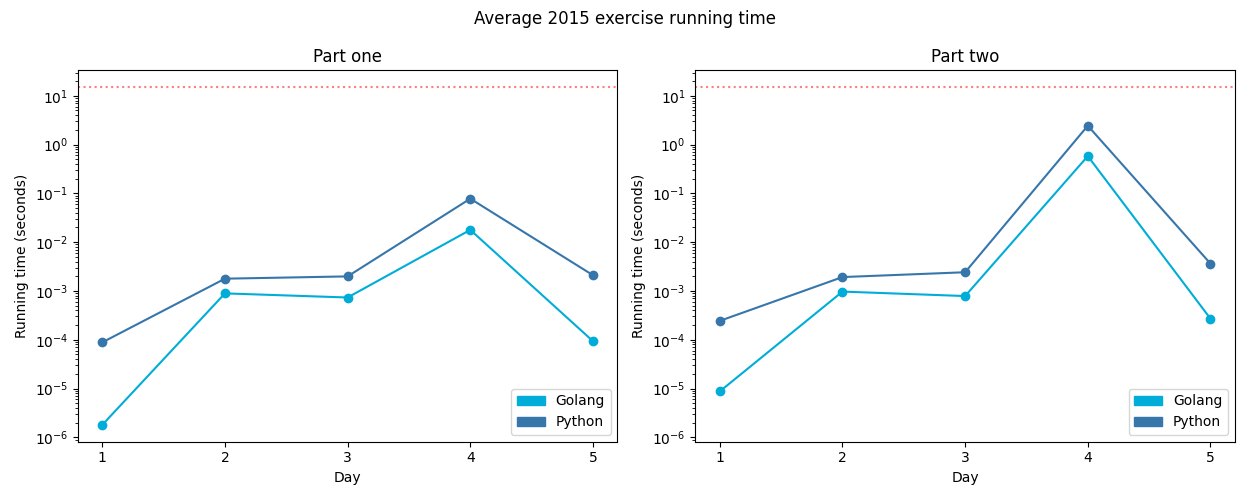
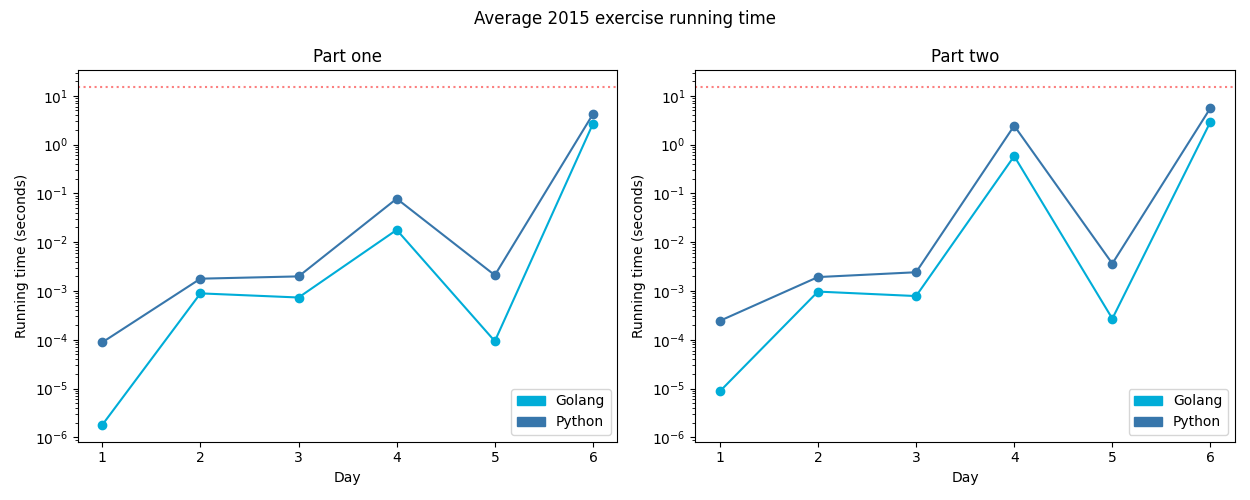
doc: aoc15-5 results

diff --git a/exercises/2015/README.md b/exercises/2015/README.md
@@ -11,7 +11,7 @@
 | [Day 3: Perfectly Spherical Houses In A Vacuum][rm3] |  ★ ★  | [Go][g3], [Python][p3] |
 | [Day 4: The Ideal Stocking Stuffer][rm4]             |  ★ ★  | [Go][g4], [Python][p4] |
 | [Day 5: Doesn't He Have Intern-Elves For This?][rm5] |  ★ ★  | [Go][g5], [Python][p5] |
-| 6                                                    |  ☆ ☆  |                        |
+| [Day 6: Probably A Fire Hazard][rm6]                 |  ★ ★  | [Go][g6], [Python][p6] |
 | 7                                                    |  ☆ ☆  |                        |
 | 8                                                    |  ☆ ☆  |                        |
 | 9                                                    |  ☆ ☆  |                        |
@@ -51,3 +51,6 @@
 [rm5]: 05-doesntHeHaveIntern-ElvesForThis/README.md
 [g5]: 05-doesntHeHaveIntern-ElvesForThis/go
 [p5]: 05-doesntHeHaveIntern-ElvesForThis/py
+[rm6]: 06-probablyAFireHazard/README.md
+[g6]: 06-probablyAFireHazard/go
+[p6]: 06-probablyAFireHazard/py

diff --git a/exercises/2015/06-probablyAFireHazard/README.md b/exercises/2015/06-probablyAFireHazard/README.md
@@ -15,7 +15,18 @@
 ## Go
 
 ```text
-    < section intentionally left blank >
+2015-6 Probably A Fire Hazard (Golang)
+
+Running...
+
+Test 1.0: pass in 259.9 ms
+Test 1.1: pass in 118 µs
+Test 1.2: pass in 11.9 µs
+Test 2.0: pass in 371 ms
+Test 2.1: pass in 100.8 µs
+Test 2.2: pass in 10.6 µs
+Part 1: 569999 in 2.7 s
+Part 2: 17836115 in 2.8 s
 ```
 
 ## Python
